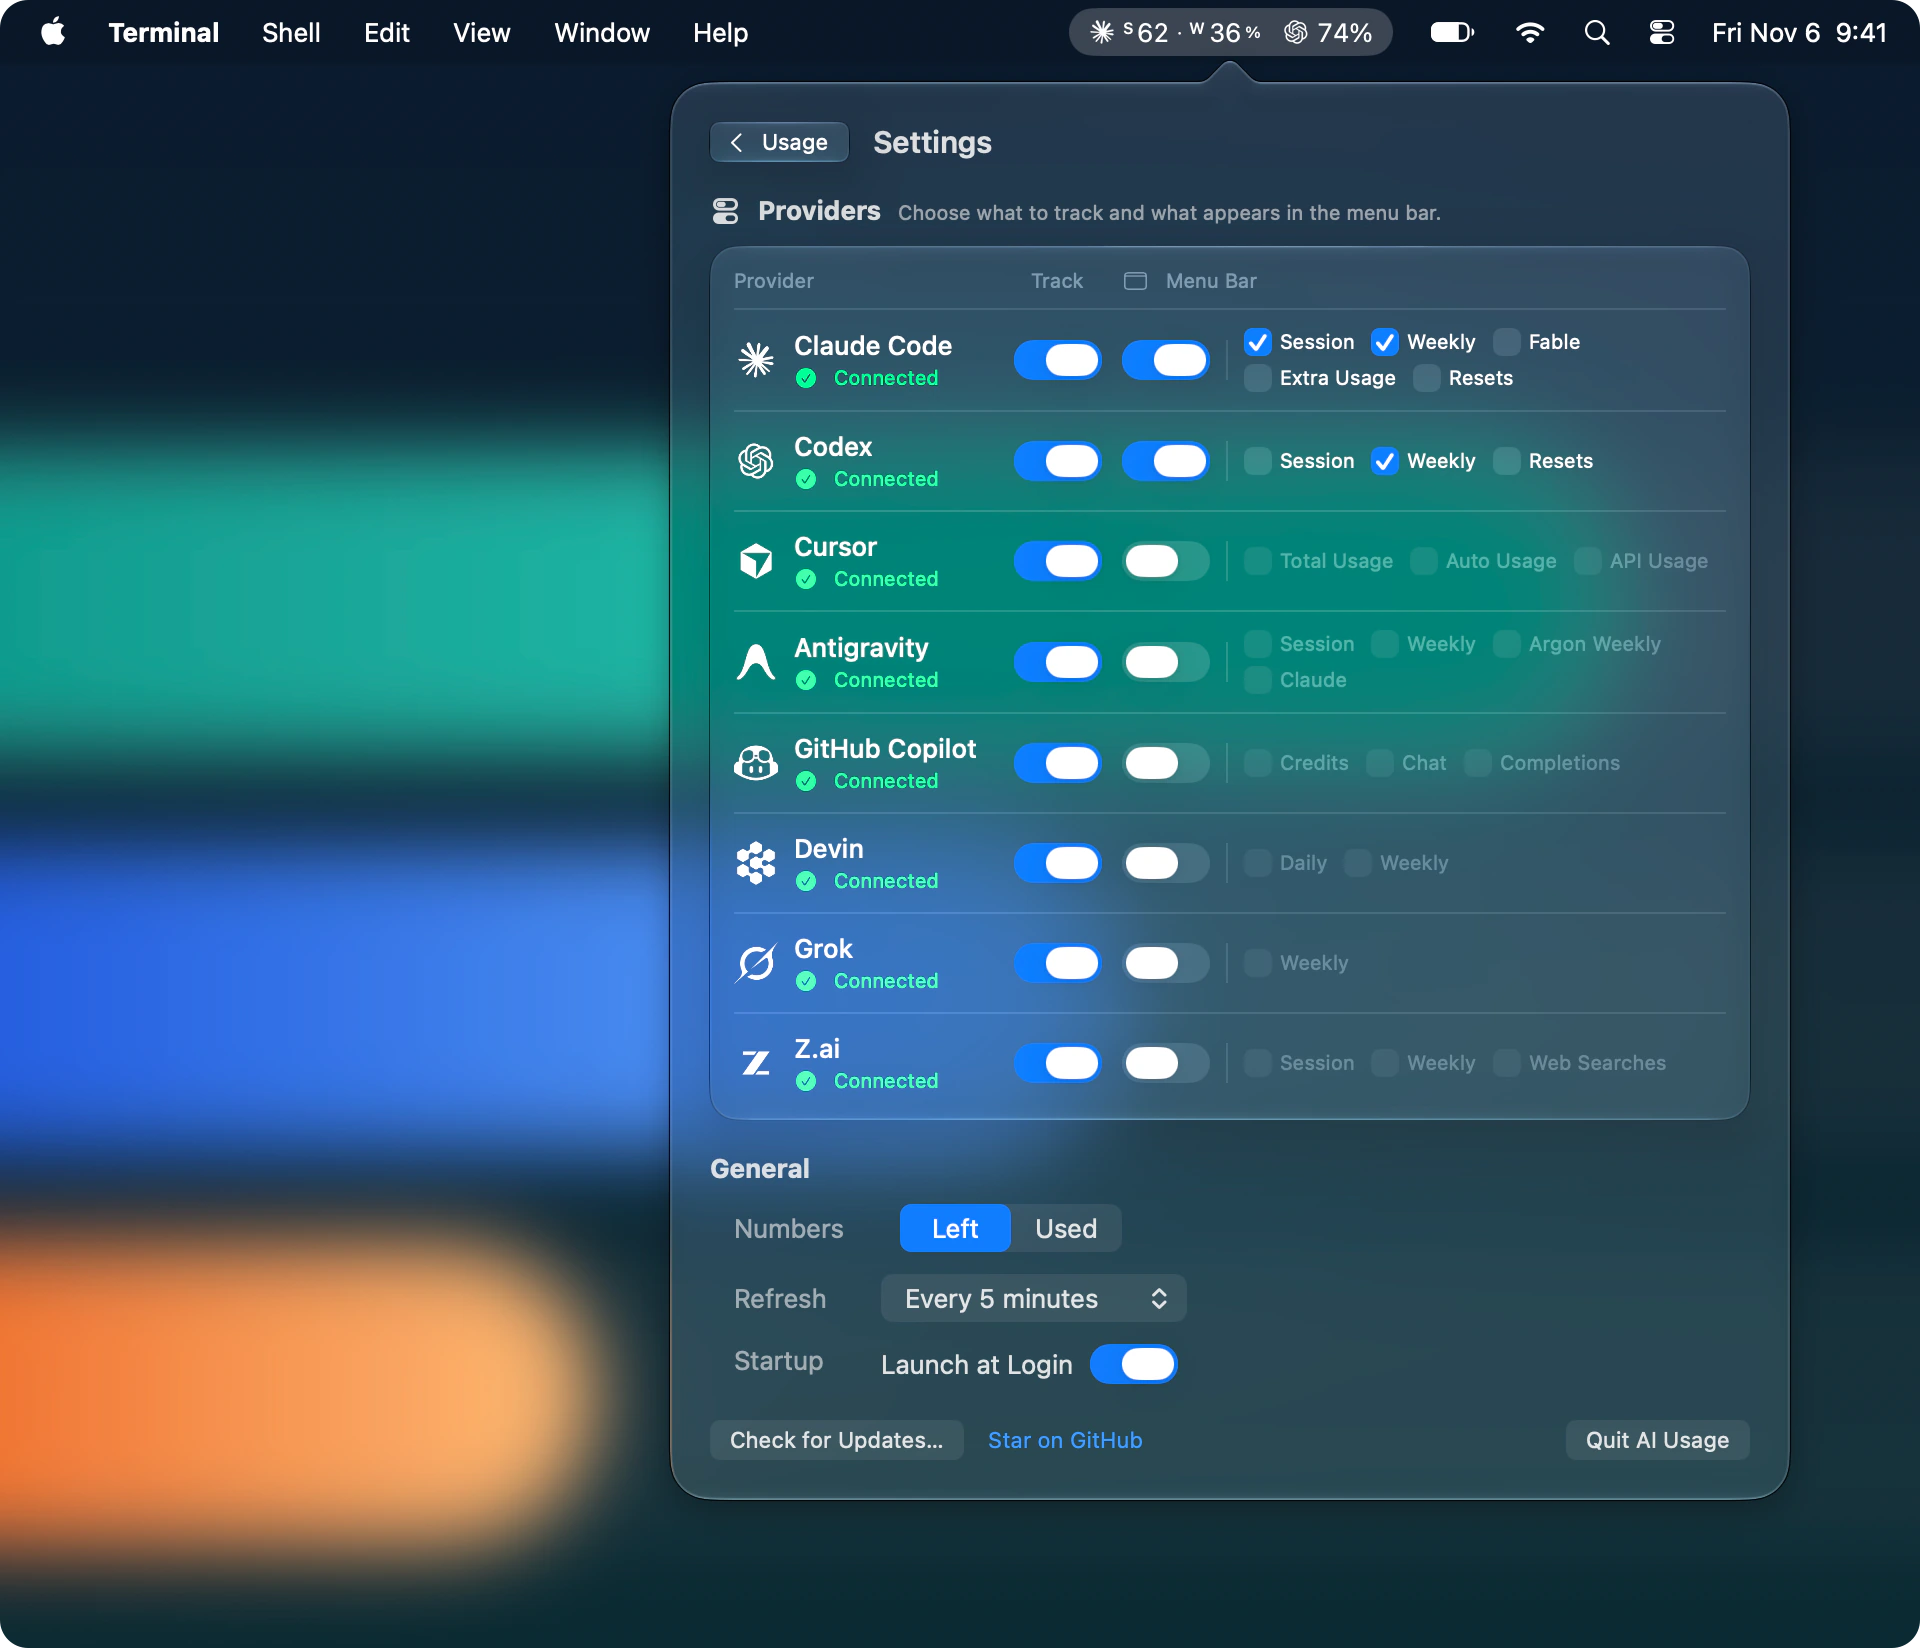
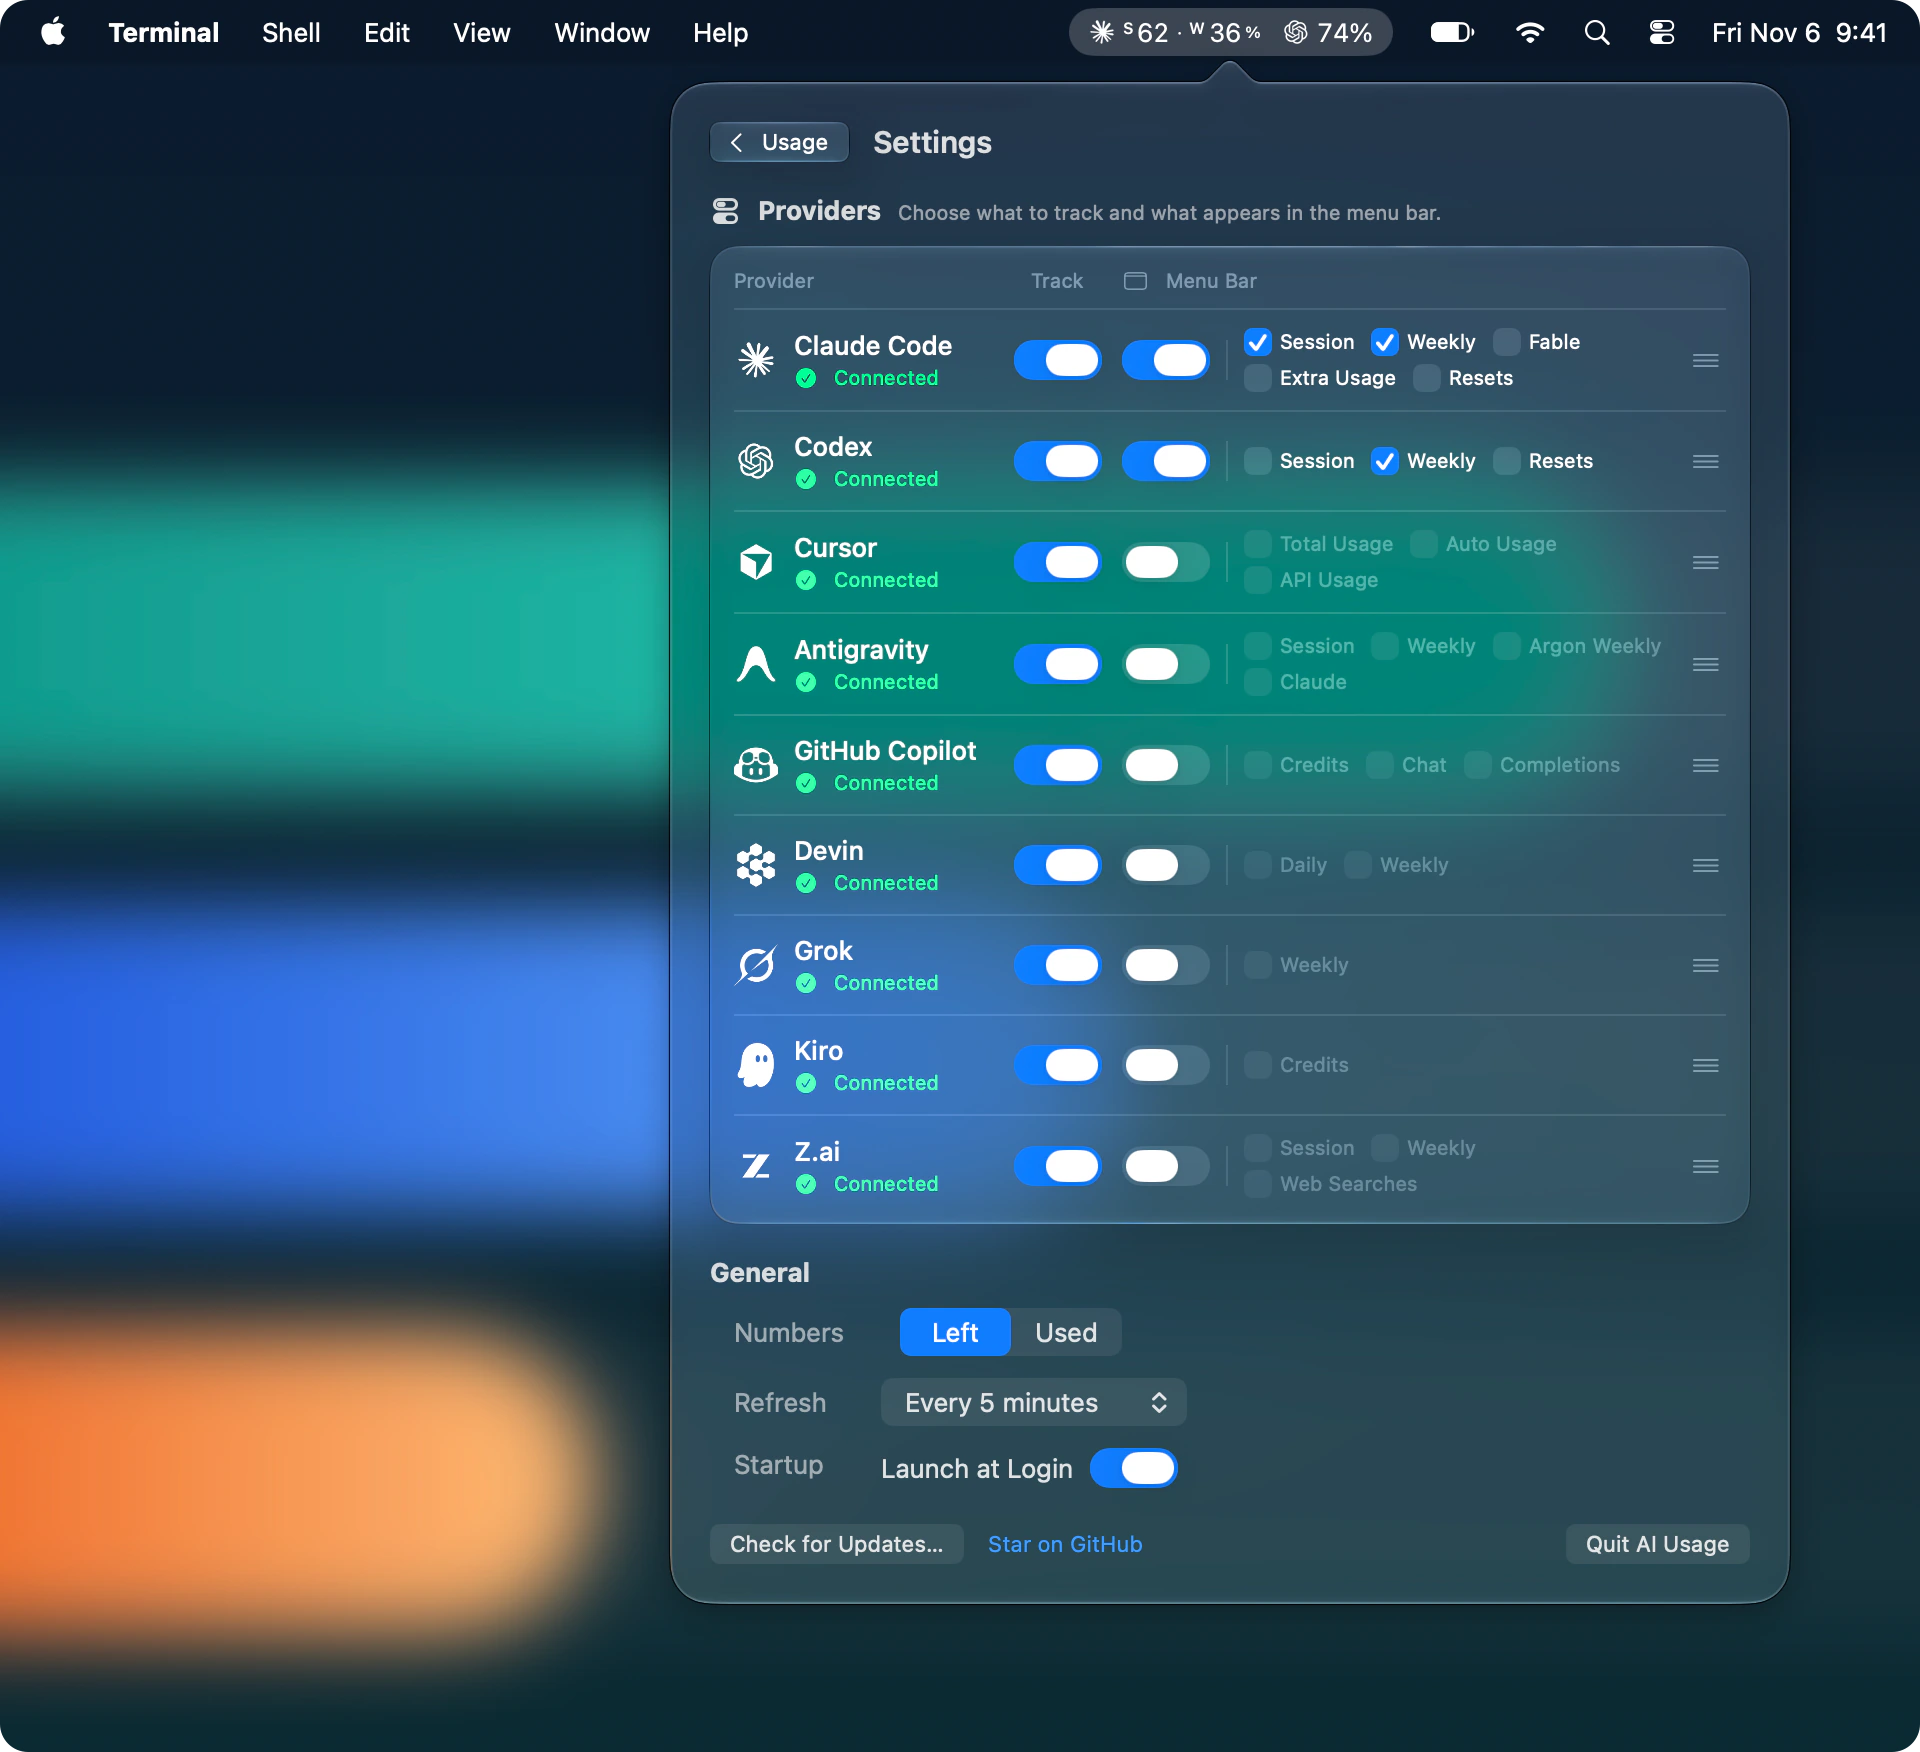
Render the README images with Kiro and the reorder handles
Add a Kiro card to the provider wall and render it, the Settings panel,
and the social preview again.

diff --git a/AIUsageTests/ReadmeShowcaseTests.swift b/AIUsageTests/ReadmeShowcaseTests.swift
@@ -735,7 +735,7 @@ private struct ProviderWall: View {
     let store: UsageStore
 
     private let columns: [[ProviderID]] = [
-        [.claude, .antigravity, .devin, .grok],
+        [.claude, .antigravity, .devin, .grok, .kiro],
         [.codex, .cursor, .copilot, .zai]
     ]
 
@@ -976,6 +976,14 @@ private enum ShowcaseData {
                 planName: "SuperGrok",
                 windows: [
                     window(.weekly, used: 28, in: 6 * day + 3 * hour)
+                ],
+                fetchedAt: now
+            ),
+            ProviderSnapshot(
+                provider: .kiro,
+                planName: "Pro+",
+                windows: [
+                    window(.credits, used: 42, in: 23 * day)
                 ],
                 fetchedAt: now
             ),
